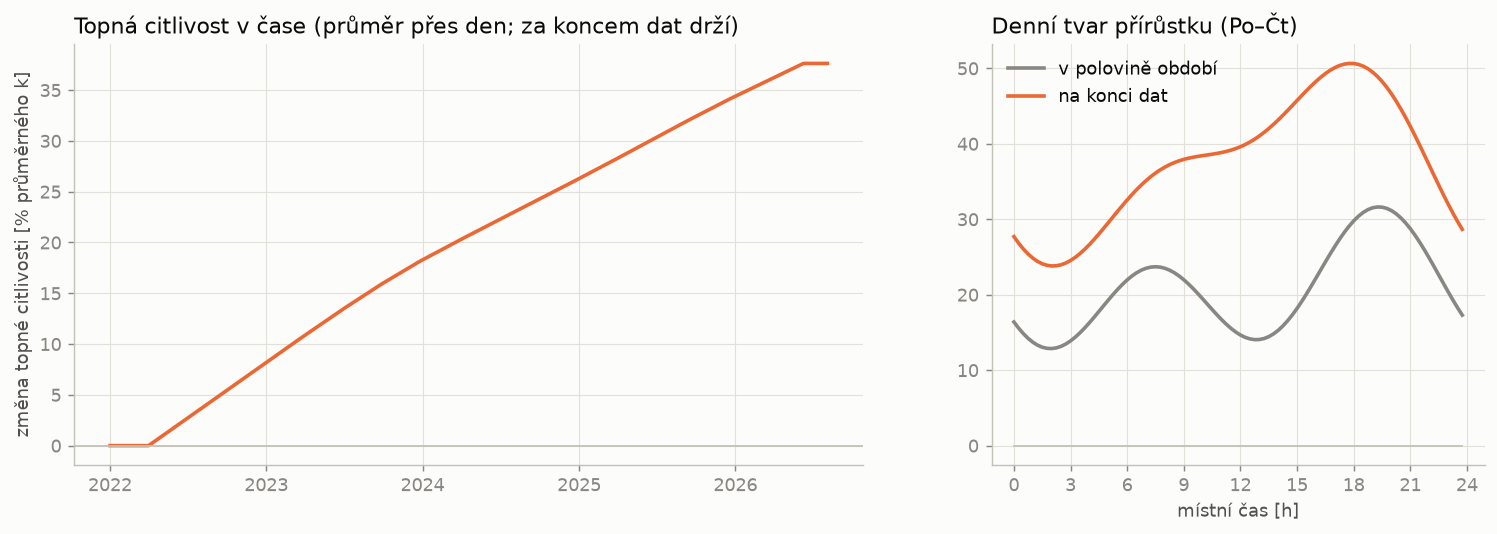
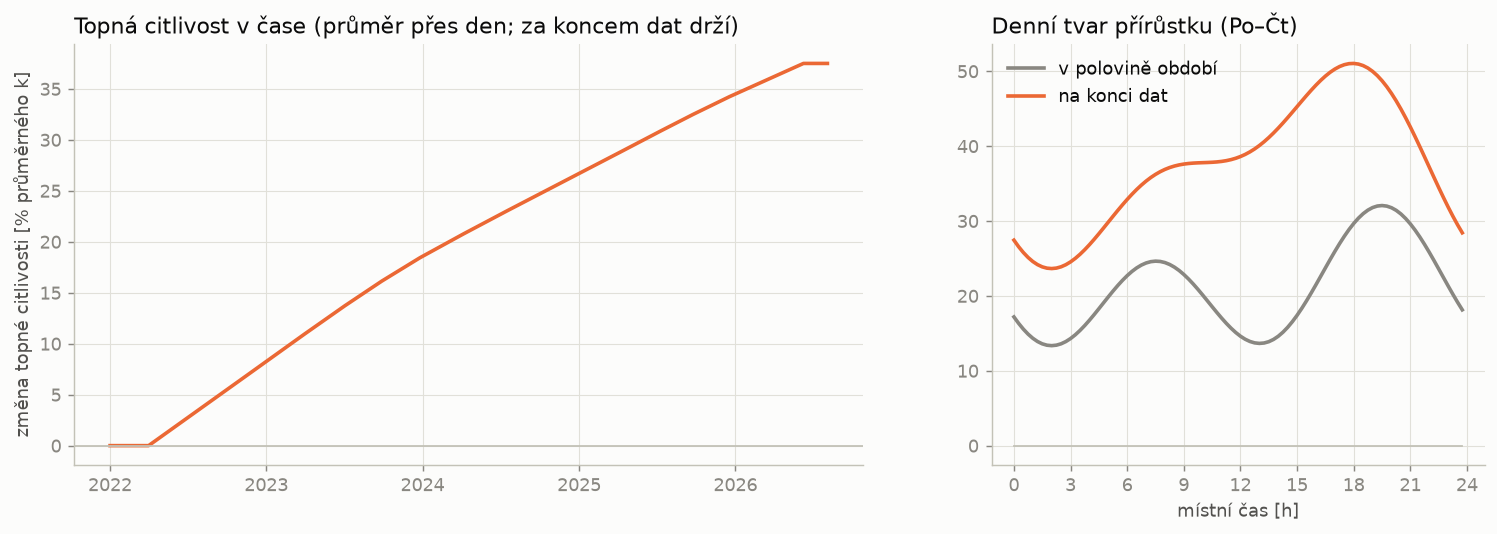
Sero pres den: spotreba pri tmave obloze jako clen baze (krok 26)
- sun.gloom: sero = (1 - tma) * exp(-osvit / 40 W/m2); etl sloupec sero
- base: clen sero x aktivita(cas dne) v 5-21 h (6 parametru, >= 0); pri plnem
  seru +30 az +33 ve 12-14 h; solarni koeficient topeni 0,021 -> 0,014
- in-sample 13,08 -> 12,71; backtest 14,30 -> 13,85 / MAPE 1,63 %, s korekci
  12,84 -> 12,42 / 1,438 %
- predpoved pocasi: sero jako stredni hodnota pres kvantily jasnosti v binu
  oblacnosti (meteo_forecast.calibrate_quantiles); s korekci 17,94 -> 17,77
- zamitnuto: osvit v rovine sklonenych panelu FVE, teplota clanku
- prepocet parametru a grafu, dokumentace v NAVRH_MODELU.md

diff --git a/src/meteo_forecast.py b/src/meteo_forecast.py
@@ -14,6 +14,12 @@ jasne oblohy (Haurwitz, z vysky slunce) x pomer jasnosti kt(oblacnost).
 kt se kalibruje empiricky z historie (do `until`), protoze vzorec
 Kasten-Czeplak vztah u stredni oblacnosti nezachyti (merena stanice: jasno
 kt ~0,64, zatazeno ~0,15).
+
+Sero pres den (clen baze, src/sun.py) je nelinearni funkce osvitu: predpoved
+dava jen stredni osvit pri dane oblacnosti, a sero stredniho osvitu neni
+stredni sero (tmave dny by se nikdy nepredpovedely). Proto se pro kazdy bin
+oblacnosti kalibruji i **kvantily** kt a sero se pocita jako prumer pres ne —
+stredni hodnota nelinearniho clenu pres rozdeleni chyby predpovedi.
 """
 from pathlib import Path
 
@@ -25,6 +31,7 @@ from etl import TZ
 
 FILE = Path(__file__).resolve().parent.parent / "Analyza" / "ArchivMeteo.xlsx"
 KT_BINS = np.arange(0, 101, 10)        # hrany binu oblacnosti [%]
+KT_QUANTILES = np.arange(0.05, 1.0, 0.1)   # kvantily kt v binu (stredy decilu)
 
 
 def load_archive() -> pd.DataFrame:
@@ -46,21 +53,38 @@ def clear_sky(index_utc: pd.DatetimeIndex) -> np.ndarray:
     return np.where(cz > 0.01, 1098 * cz * np.exp(-0.057 / np.maximum(cz, 0.01)), 0.0)
 
 
-def calibrate(arch: pd.DataFrame, actual: pd.DataFrame, until: pd.Timestamp) -> np.ndarray:
-    """kt v binech oblacnosti z hodin pred `until` (bez uniku z budoucnosti)."""
+def _history(arch: pd.DataFrame, actual: pd.DataFrame, until: pd.Timestamp) -> tuple[pd.DataFrame, np.ndarray]:
+    """Hodiny pred `until` se sluncem nad obzorem a jejich bin oblacnosti."""
     act = actual["sun"].groupby(actual.index.floor("h")).mean()
     j = arch[["obl"]].join(act, how="inner")
     j = j[j.index < until]
     j["cs"] = clear_sky(j.index + pd.Timedelta(minutes=30))
     j = j[j.cs > 50]
-    b = np.clip(np.digitize(j.obl, KT_BINS[1:-1]), 0, len(KT_BINS) - 2)
+    return j, np.clip(np.digitize(j.obl, KT_BINS[1:-1]), 0, len(KT_BINS) - 2)
+
+
+def calibrate(arch: pd.DataFrame, actual: pd.DataFrame, until: pd.Timestamp) -> np.ndarray:
+    """kt v binech oblacnosti z hodin pred `until` (bez uniku z budoucnosti)."""
+    j, b = _history(arch, actual, until)
     # pomer souctu (vahy podle osvitu za jasne oblohy), ne prumer pomeru
     return np.array([j.sun[b == k].sum() / j.cs[b == k].sum() for k in range(len(KT_BINS) - 1)])
 
 
-def to_15min(arch: pd.DataFrame, index_15: pd.DatetimeIndex, kt: np.ndarray) -> pd.DataFrame:
+def calibrate_quantiles(arch: pd.DataFrame, actual: pd.DataFrame, until: pd.Timestamp) -> np.ndarray:
+    """Kvantily kt v binech oblacnosti (bin x kvantil) — rozdeleni skutecne
+    jasnosti pri dane predpovedi oblacnosti."""
+    j, b = _history(arch, actual, until)
+    ratio = (j.sun / j.cs).to_numpy()
+    return np.array([np.quantile(ratio[b == k], KT_QUANTILES) for k in range(len(KT_BINS) - 1)])
+
+
+def to_15min(arch: pd.DataFrame, index_15: pd.DatetimeIndex, kt: np.ndarray,
+             kt_q: np.ndarray | None = None) -> pd.DataFrame:
     """Predpoved na 15min ose: teplota, vitr a oblacnost linearne mezi stredy
-    hodin, osvit = jasna obloha (stred intervalu) x kt(oblacnost)."""
+    hodin, osvit = jasna obloha (stred intervalu) x kt(oblacnost).
+
+    S kt_q (calibrate_quantiles) navic sloupec `sero_den` = stredni hodnota
+    exp(-osvit / I0) pres rozdeleni kt pri dane oblacnosti (bez faktoru tmy)."""
     mid_h = arch.index + pd.Timedelta(minutes=30)
     mid_q = index_15 + pd.Timedelta(minutes=7.5)
     x, xq = mid_h.asi8.astype(float), mid_q.asi8.astype(float)
@@ -68,5 +92,10 @@ def to_15min(arch: pd.DataFrame, index_15: pd.DatetimeIndex, kt: np.ndarray) -> 
     for c in ("temp", "wind", "obl"):
         out[c] = np.interp(xq, x, arch[c].to_numpy())
     centers = (KT_BINS[:-1] + KT_BINS[1:]) / 2
-    out["sun"] = clear_sky(mid_q) * np.interp(out["obl"].to_numpy(), centers, kt)
+    cs = clear_sky(mid_q)
+    out["sun"] = cs * np.interp(out["obl"].to_numpy(), centers, kt)
+    if kt_q is not None:
+        obl = out["obl"].to_numpy()
+        out["sero_den"] = np.mean([np.exp(-cs * np.interp(obl, centers, kt_q[:, q]) / sun.GLOOM_I0)
+                                   for q in range(kt_q.shape[1])], axis=0)
     return out

diff --git a/src/base.py b/src/base.py
@@ -24,6 +24,11 @@ nepusobi topeni ani chlazeni):
   kubicke B-spliny jen v oknech usvitu a soumraku, na okrajich oken plynule
   nulove: mimo okna je tma po cely rok stejna (poledne vzdy svetlo, pozdni
   noc vzdy tma) a clen by tam splyval s profilem.
+- sero pres den: sero(t) * aktivita(cas dne) — pri tmave obloze za dne
+  (tezka oblacnost, mlha; osvit pod ~100 W/m2) je spotreba vyssi nez za
+  jasneho dne se stejnou teplotou, v pracovni i volne dny (sviti se i pres
+  den). sero = (1 - tma) * exp(-osvit / I0) (src/sun.py), aktivita kubicke
+  B-spliny pres den, >= 0. Na rozdil od osvetleni za tmy zavisi na pocasi.
 - most: celodenni aditivni posun (konstanta + K_MOST harmonickych) — mosty
   jsou typovane jako patek, ale byvaji o 20-40 nize (vybirane dovolene);
   zvlast jednodenni a dvoudenni mosty (dvoudenni byvaji slabsi), mimo
@@ -58,6 +63,8 @@ K_MOST = 2                 # harmonickych v korekci mostu
 LIGHT_WINDOWS = ((3.0, 8.5), (15.0, 23.0))
 LIGHT_KNOT = 1.0           # [h] rozestup uzlu aktivity osvetleni
 LIGHT_RIDGE = 1.0          # ridge osvetleni ve fitu z mirnych dnu (relativne)
+GLOOM_WINDOW = (5.0, 21.0) # [h] okno clenu sera pres den (mistni cas)
+GLOOM_KNOT = 2.0           # [h] rozestup uzlu aktivity pri seru
 
 MODEL_DIR = Path(__file__).resolve().parent.parent / "models"
 
@@ -111,6 +118,13 @@ def _light_basis(tod: np.ndarray) -> np.ndarray:
 N_LIGHT = sum(len(_window_knots(a, b, LIGHT_KNOT)) - 2 for a, b in LIGHT_WINDOWS)
 
 
+def _gloom_basis(tod: np.ndarray) -> np.ndarray:
+    return _window_basis(tod, *GLOOM_WINDOW, GLOOM_KNOT)
+
+
+N_GLOOM = len(_window_knots(*GLOOM_WINDOW, GLOOM_KNOT)) - 2
+
+
 def _n_spline(span_days: float) -> int:
     return len(np.arange(0.0, span_days + KNOT_DAYS, KNOT_DAYS)) + 2
 
@@ -128,6 +142,7 @@ def _slices(span_days: float) -> dict:
     out["most"] = slice(i, i + 1 + 2 * K_MOST); i += 1 + 2 * K_MOST
     out["most2"] = slice(i, i + 1 + 2 * K_MOST); i += 1 + 2 * K_MOST
     out["svetlo"] = slice(i, i + N_LIGHT); i += N_LIGHT
+    out["sero"] = slice(i, i + N_GLOOM); i += N_GLOOM
     for name, k in kalendar.period_groups():
         out["obd_" + name] = slice(i, i + 1 + 2 * k); i += 1 + 2 * k
     out["total"] = i
@@ -169,6 +184,7 @@ def design(df: pd.DataFrame, t0, span_days: float) -> np.ndarray:
         mo = (most & ~in_period & (df["most_delka"].to_numpy() == n_run)).astype(float)[:, None]
         blocks.append(np.hstack([mo, fsub(K_MOST) * mo]))
     blocks.append(_light_basis(tod) * df["tma"].to_numpy()[:, None])
+    blocks.append(_gloom_basis(tod) * df["sero"].to_numpy()[:, None])
     for name, k in groups:
         g = df["obd_" + name].to_numpy(float)[:, None]
         blocks.append(np.hstack([g, fsub(k) * g]) if k else g)
@@ -222,6 +238,9 @@ def fit(df: pd.DataFrame, smooth: float = SMOOTH) -> dict:
     # osvetleni tu stahnout k nule, plne ho odhadne az joint fit
     sl_l = sl["svetlo"]
     P[sl_l, sl_l] += LIGHT_RIDGE * np.trace(XtX) / p * np.eye(sl_l.stop - sl_l.start)
+    # sero se z mirnych dnu (malo tmavych dni) odhaduje spatne — stejne ukotveni
+    sl_g = sl["sero"]
+    P[sl_g, sl_g] += LIGHT_RIDGE * np.trace(XtX) / p * np.eye(sl_g.stop - sl_g.start)
     coef = np.linalg.solve(XtX + P, X.T @ y)
     resid = y - X @ coef
     return {
@@ -280,6 +299,13 @@ def light_curve(params: dict, tod: np.ndarray | None = None) -> np.ndarray:
     if tod is None:
         tod = np.arange(0, 24, 0.25)
     return _light_basis(tod) @ params["coef"][_slices(params["span_days"])["svetlo"]]
+
+
+def gloom_curve(params: dict, tod: np.ndarray | None = None) -> np.ndarray:
+    """Spotreba navic pri plnem seru (nulovy osvit za dne) podle casu dne."""
+    if tod is None:
+        tod = np.arange(0, 24, 0.25)
+    return _gloom_basis(tod) @ params["coef"][_slices(params["span_days"])["sero"]]
 
 
 def save(params: dict, path: Path | None = None) -> Path:

diff --git a/src/sun.py b/src/sun.py
@@ -11,6 +11,7 @@ import pandas as pd
 LAT, LON = 49.8, 15.5        # stred CR
 DARK_MID = -2.0              # [deg] vyska slunce, kde je "pul tmy"
 DARK_WIDTH = 1.5             # [deg] sirka prechodu (soumrak trva ~30-40 min)
+GLOOM_I0 = 40.0              # [W/m2] osvit, pri kterem sero pres den klesne na 1/e
 
 
 def _solar(ts_utc: pd.DatetimeIndex):
@@ -49,6 +50,13 @@ def sun_times(dates: pd.DatetimeIndex) -> tuple[pd.Series, pd.Series]:
 def darkness(elev: np.ndarray) -> np.ndarray:
     """Plynula tma: 0 za dne, 1 po obcanskem soumraku."""
     return 1 / (1 + np.exp((elev - DARK_MID) / DARK_WIDTH))
+
+
+def gloom(tma: np.ndarray, ghi: np.ndarray) -> np.ndarray:
+    """Sero pres den: 1 pri nulovem osvitu za dne (tezka oblacnost, mlha), 0 za
+    jasneho dne i v noci (tmu nese astronomicka `tma`). Zavisi na pocasi —
+    v predikci se pocita z predpovedi osvitu."""
+    return (1.0 - np.asarray(tma, float)) * np.exp(-np.maximum(np.asarray(ghi, float), 0.0) / GLOOM_I0)
 
 
 def darkness_15min(index_utc: pd.DatetimeIndex) -> np.ndarray:

diff --git a/src/backtest.py b/src/backtest.py
@@ -32,6 +32,7 @@ import etl
 import fit
 import heating
 import pv
+import sun
 import validate
 
 ISSUE_HOUR = 10   # vydani predikce v D [h, mistni cas]
@@ -170,6 +171,13 @@ def forecast_day(df: pd.DataFrame, day: pd.Timestamp, shape: tuple,
         fc = meteo.reindex(recent.index[fut])
         for c in ("temp", "sun", "wind"):
             recent.loc[fut, c] = fc[c].fillna(recent.loc[fut, c]).to_numpy()
+        # sero pres den zavisi na osvitu -> z predpovedi; je nelinearni, proto
+        # stredni hodnota pres rozdeleni jasnosti (sero_den), ne sero stredniho osvitu
+        if "sero_den" in fc:
+            g = (1.0 - recent.loc[fut, "tma"]) * fc["sero_den"].to_numpy()
+            recent.loc[fut, "sero"] = g.fillna(recent.loc[fut, "sero"]).to_numpy()
+        else:
+            recent["sero"] = sun.gloom(recent["tma"], recent["sun"])
     sel = (pd.to_datetime(recent["date_local"]) == target).to_numpy()
     comp = components(recent, params)[sel]
     comp.insert(0, "skutecnost", recent["baseload"][sel])

diff --git a/src/etl.py b/src/etl.py
@@ -34,7 +34,7 @@ def hourly(df: pd.DataFrame) -> pd.DataFrame:
     """Hodinova agregace vystupu load(): spojite veliciny prumerem (spotreba,
     meteo, tma), kalendarni sloupce prvni hodnotou. Pro fit tvaru (nelinearni
     parametry nepotrebuji ctvrthodinove rozliseni, 4x mene radku)."""
-    num = [c for c in ("baseload", "sun", "wind", "temp", "tma") if c in df.columns]
+    num = [c for c in ("baseload", "sun", "wind", "temp", "tma", "sero") if c in df.columns]
     g = df.groupby(df.index.floor("h"))
     out = g[[c for c in df.columns if c not in num]].first()
     out[num] = g[num].mean()
@@ -117,6 +117,8 @@ def _load(with_local_time: bool) -> pd.DataFrame:
         # tma (astronomicka, deterministicka) pro clen osvetleni
         import sun
         df["tma"] = sun.darkness_15min(df.index)
+        # sero pres den (tmava obloha za dne) pro clen denniho sviceni
+        df["sero"] = sun.gloom(df["tma"], df["sun"])
     return df
 
 

diff --git a/explore/backtest.py b/explore/backtest.py
@@ -94,8 +94,9 @@ def _forecast_meteo(df, until):
     import meteo_forecast as mf
     arch = mf.load_archive()
     kt = mf.calibrate(arch, df, until)
+    kt_q = None if "--sero=stredni-osvit" in sys.argv else mf.calibrate_quantiles(arch, df, until)
     idx = df.index[(df.index >= arch.index.min()) & (df.index <= arch.index.max())]
-    return mf.to_15min(arch, idx, kt)
+    return mf.to_15min(arch, idx, kt, kt_q)
 
 
 def _shape(args):

diff --git a/explore/ceps_analyza.py b/explore/ceps_analyza.py
@@ -121,6 +121,8 @@ if METEO_FC:
     dfc_pred = dfc.copy()
     for c in ("temp", "sun", "wind"):
         dfc_pred.loc[fc.index, c] = fc[c].to_numpy()
+    import sun
+    dfc_pred["sero"] = sun.gloom(dfc_pred["tma"], dfc_pred["sun"])
     print("   model CR pro prekvapeni CEPS: predpoved pocasi od", until)
 cz_model = pd.Series(validate.predict(dfc_pred, pre_c), index=dfc.index)
 da = ent["da"].reindex(bt.index.floor("h")).to_numpy()

diff --git a/src/fit.py b/src/fit.py
@@ -171,6 +171,7 @@ def joint(df: pd.DataFrame, bp: dict, hp: dict, cp: dict, pp: dict,
     lb = np.full(p, -np.inf)
     lb[sl_pv] = 0.0              # kapacita FVE neklesajici
     lb[sl_b["svetlo"]] = 0.0     # osvetleni za tmy jen pridava spotrebu
+    lb[sl_b["sero"]] = 0.0       # sero pres den take
     ub = np.full(p, np.inf)
 
     n_hp = len(heating.PARAM_NAMES)

diff --git a/NAVRH_MODELU.md b/NAVRH_MODELU.md
@@ -433,3 +433,25 @@ Výhrada: kroky 8–23 se ladily a hodnotily na stejném roce backtestu (8/2025 
 - **Stav ústředního topení podle pravidla vyhlášky** (zahájení při denním průměru < 13 °C dva dny po sobě, přerušení při > 13 °C dva dny po sobě): chladné dny ve stavu „neběží“ (56 dní, hlavně září, začátek října, květen) mají reziduum −2,0 ± 1,4; pracovní dny celkově 0, volné dny −6,4 ± 2,6, podzimní pracovní doba −5,2 ± 2,5 (n = 14).
 - **Závěr: samostatný člen nezavádět.** Většinu zpoždění už nese pomalý kanál teplotního filtru (váha 64 %, τ ≈ 82 h); zbytek je ~5 jednotek ve ~12 dnech ročně — na ročním RMSE pod 0,01 — a z tak mála událostí by se člen odhadoval hůř, než kolik by přinesl. Část chytá korekce z ranní chyby dne vydání (x2). Vrátit se, až bude událostí víc, nebo pokud by se dal použít skutečný údaj o zahájení topné sezóny.
 - Vedlejší nález: 24. 9. 2025 (nejhorší den backtestu, −32) není zatopení — spotřeba je o 35–40 níž rovnoměrně od 1 h do 16 h včetně noci (jednorázová událost v portfoliu nebo v datech); následující den naopak +25 až +40 v pracovní době.
+
+### 2026-10-02 — šero přes den: spotřeba při tmavé obloze (krok 26)
+
+**Diagnostika polední chyby** (rezidua plného fitu, 9–15 h, mimo Vánoce): reziduum závisí na osvitu nelineárně — při osvitu pod ~10 W/m² za dne +7 až +14, mezi 100 a 400 W/m² záporné (zima −10 až −12, přechod −3, léto −1), nad 400 opět kladné. V zimě koreluje polední reziduum s jasností oblohy −0,55, v létě 0. Rozdíl „tmavá minus světlá čtvrthodina“ je +6 až +12 v 8–17 h, **v pracovní i volné dny a ve všech sezónách**; největší kolem poledne.
+
+**Zamítnutá hypotéza — sklon panelů FVE**: model násobí kapacitu osvitem na vodorovnou plochu, skloněné panely při nízkém zimním slunci dostávají víc. Přepočet osvitu do roviny panelů (rozklad na přímou a difuzní složku podle Erbse, sklon 20/35/50° k jihu) in-sample nepomohl (hodinový fit 12,62 → 12,60 až 12,66, zimní korelace s jasností −0,50 až −0,53); teplota článku místo teploty vzduchu 12,62 → 12,59. Do modelu nezavedeno.
+
+**Člen „šero přes den“ v bázi** (`src/sun.py`, `src/base.py`, `src/etl.py`): `šero(t) = (1 − tma) · exp(−osvit / I0)`, `I0 = 40 W/m²`; příspěvek = šero × aktivita(čas dne), aktivita z kubických B-splin v 5–21 h (6 parametrů), ≥ 0, společná pro všechny typy dnů. Nejpravděpodobnější výklad je svícení přes den při těžké oblačnosti a mlze (přímo neověřeno — může v tom být i část solárních zisků, které lineární člen v topení nevystihne). Na rozdíl od osvětlení za tmy závisí na počasí; ETL ho počítá jako sloupec `sero`.
+- Hledání I0 (hodinový fit celého řetězce): bez členu 12,62; I0 = 15 / 40 / 80 / 150 → 12,20 / 12,22 / 12,27 / 12,36. Zvoleno 40 (plošší, méně citlivé na chybu předpovědi).
+- Při plném šeru je spotřeba vyšší o ~4 v 6 h, ~19 v 10 h, **~30–33 ve 12–14 h**, ~21 v 16 h, ~6 ve 20 h. Zimní poledne RMSE 15,8 → 13,7, korelace rezidua s jasností −0,55 → −0,32.
+- **Solární koeficient topení a klesl z 0,021 na 0,0135 °C/(W/m²)** — část efektu tmavé oblohy dřív neslo topení jako „chybějící solární zisky“.
+
+| backtest | RMSE | MAPE | + korekce | + korekce MAPE |
+|---|---|---|---|---|
+| v8 (po opravě korekce) | 14,30 | 1,66 % | 12,84 | 1,473 % |
+| **v9 šero přes den** | **13,85** | **1,63 %** | **12,42** | **1,438 %** |
+
+**Předpověď počasí a nelineární člen** (`src/meteo_forecast.py`, `src/backtest.py`): šero spočítané ze *středního* předpovězeného osvitu realistický backtest nezlepšilo (s korekcí 17,94 → 17,99, model sám 19,42 → 19,93) — předpověď z oblačnosti dává střední osvit a šero středního osvitu není střední šero, tmavé dny se tak nikdy nepředpoví. Proto se pro každý bin oblačnosti kalibrují i **kvantily** poměru jasnosti a šero se v predikci počítá jako průměr přes ně (střední hodnota nelineárního členu přes rozdělení chyby předpovědi): s korekcí 17,94 → **17,77**, MAPE 2,006 → **1,992 %**. Volba `--sero=stredni-osvit` vrací původní výpočet.
+
+Očištěná spotřeba: šero je součástí báze, při přepočtu na normálové počasí zůstává skutečné (rozdíl proti normálu je v ročním průměru malý).
+
+Plný fit na 15min datech (uložené parametry, `models/*_joint.npz`): RMSE 13,08 → **12,71**; T_b 16,8 °C, s 2,0, τ 82 h beze změny.
